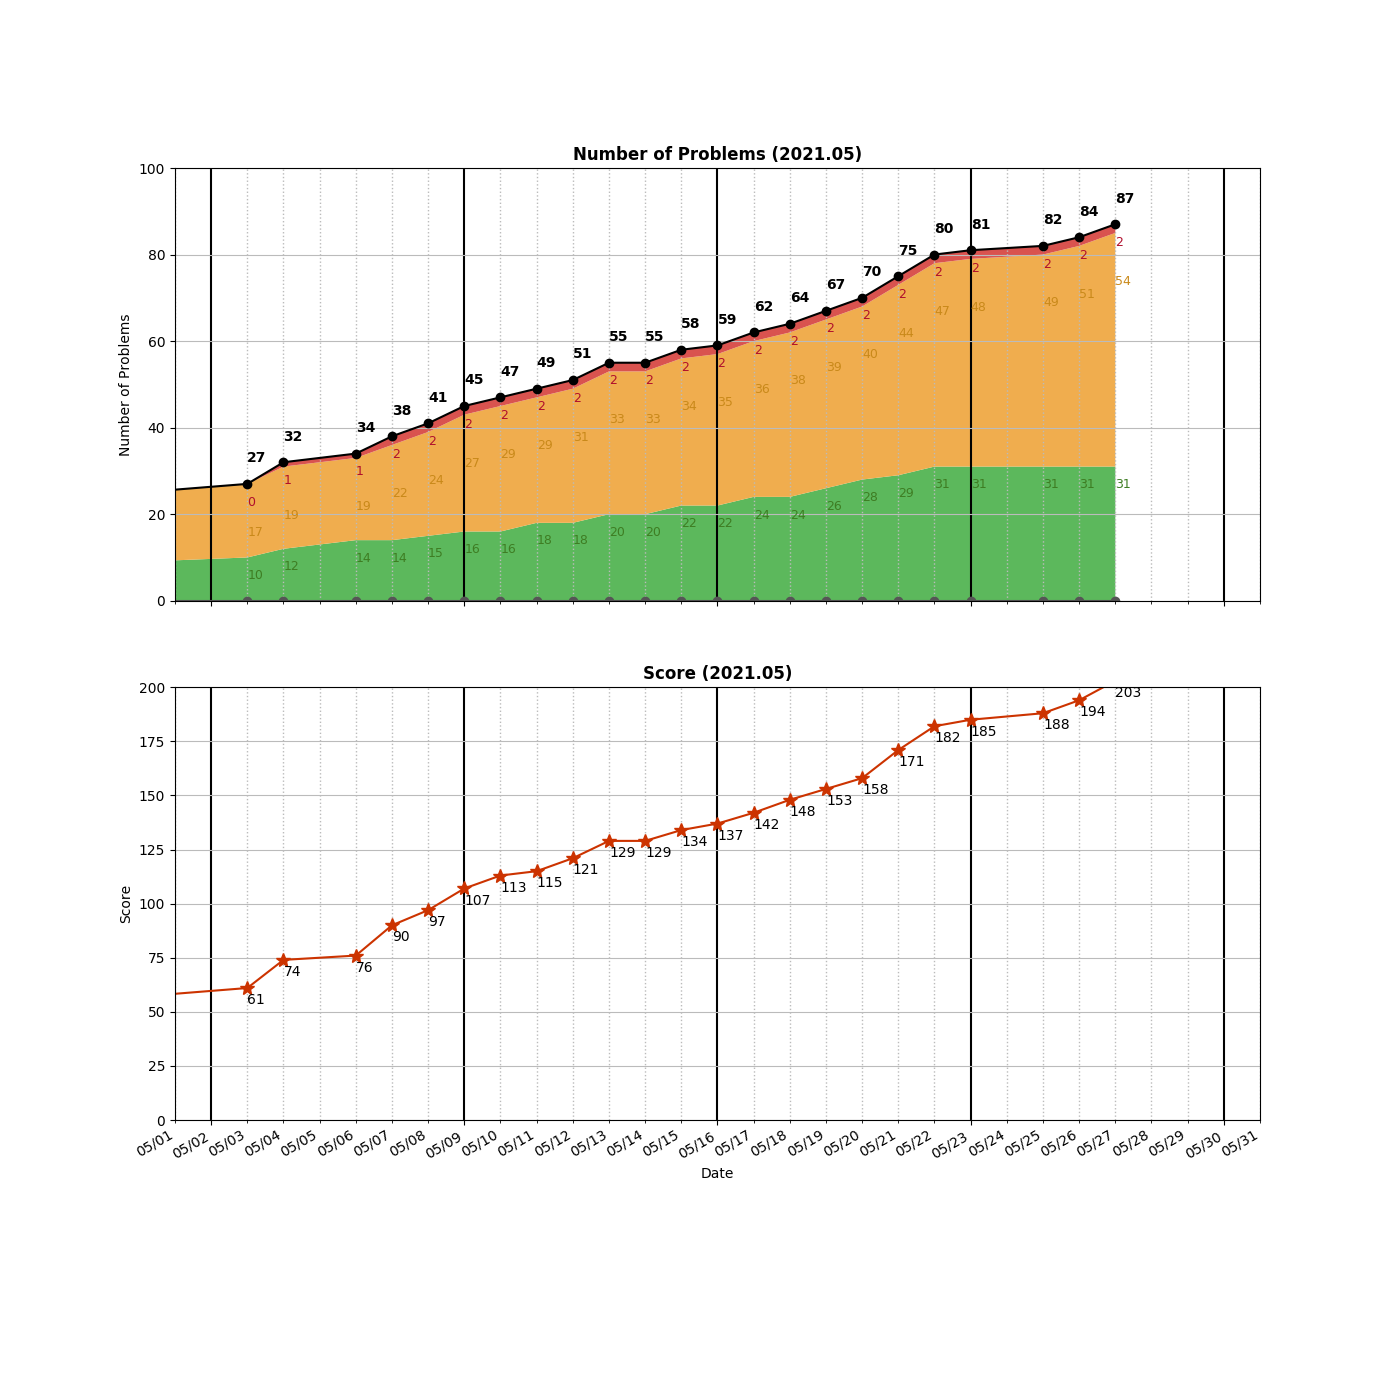
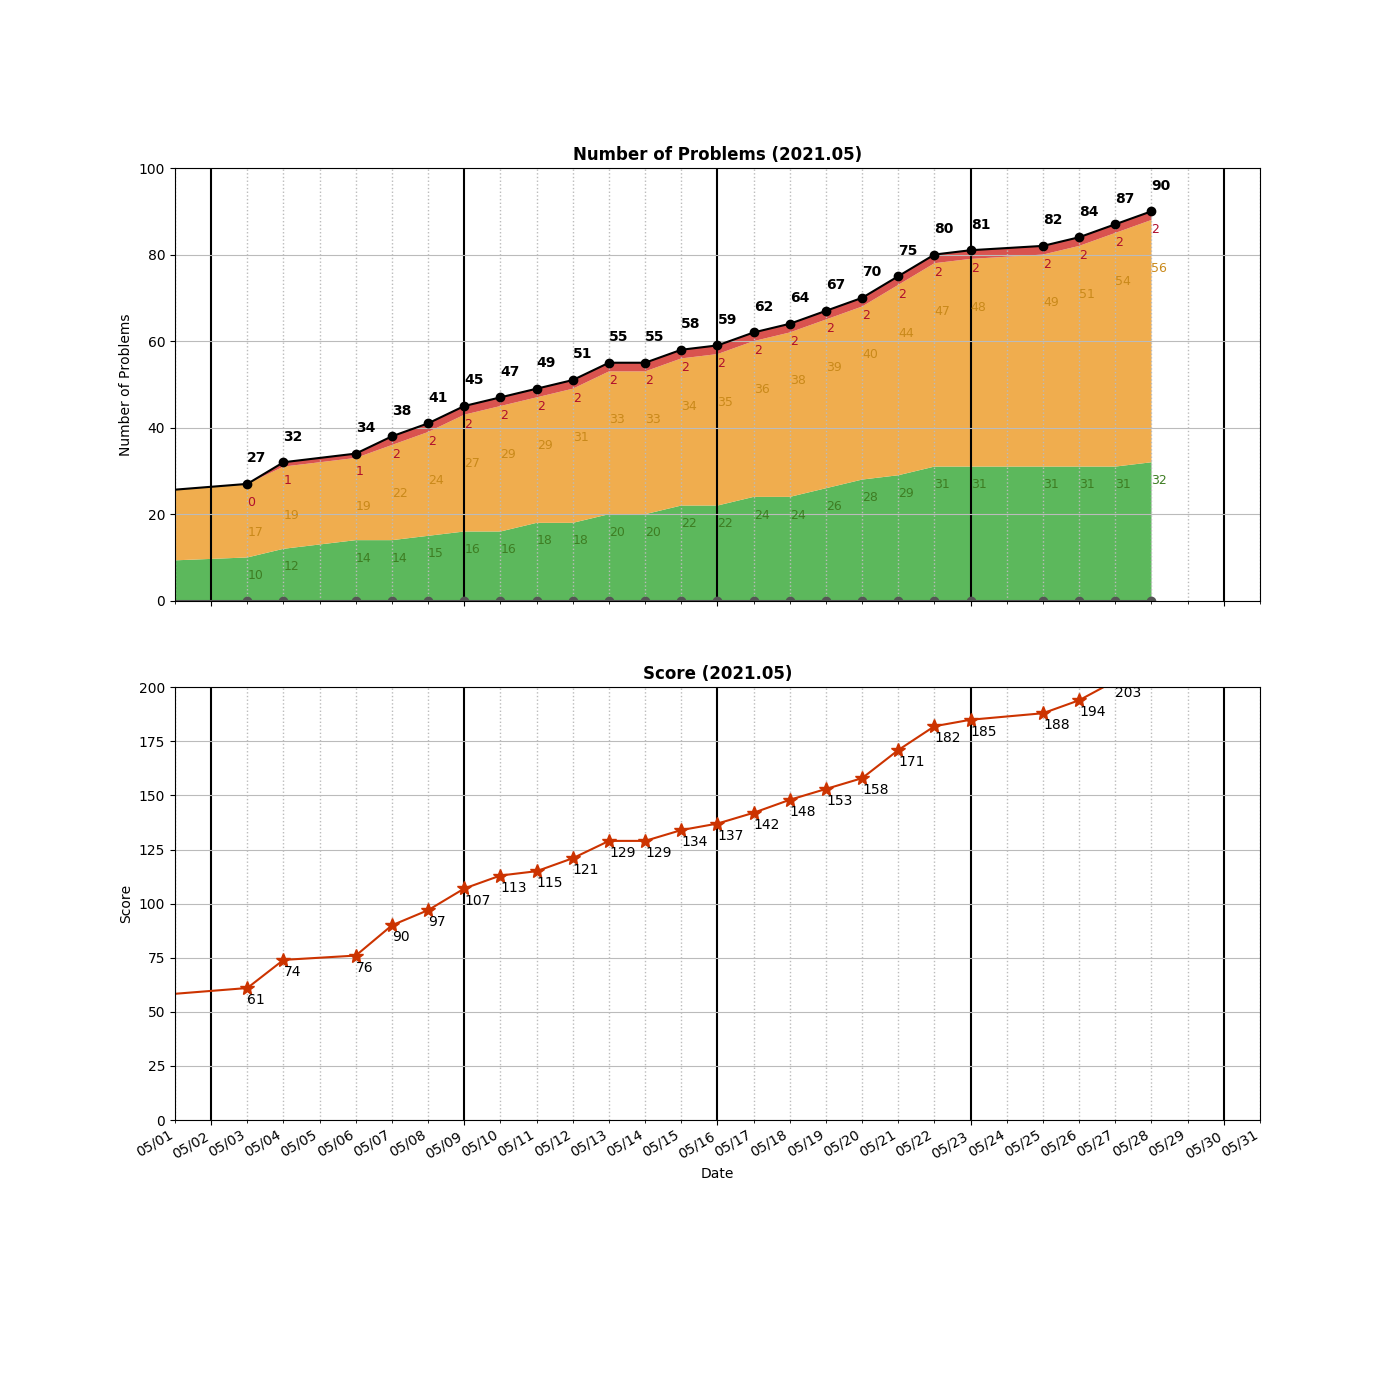
Added __0079__Word Search.py

Changed region(s): [[0.7986, 0.1536, 0.8293, 0.43]]

diff --git a/algo/DFS/__0079__Word Search.py b/algo/DFS/__0079__Word Search.py
@@ -1,0 +1,116 @@
+DIR = [(0,1), (0,-1), (1,0), (-1,0)]
+
+class Solution:
+    
+    # DFS [O(n^2 * 3^L * 1), 5%]
+    # - Compare one char by one char on the fly.
+    # - Not need to store the PrefixSet 
+    # - Not need to store the cur list. 
+    # - i, j: the coordinates for board
+    # - idx : the coordinates for word
+    def exist(self, board: List[List[str]], word: str) -> bool:
+        print("Compare on the fly")
+        if not board or len(board[0]) == 0:
+            return False
+        if not word:
+            return True
+        
+        m = len(board)
+        n = len(board[0])
+        visited = [[0 for _ in range(n)] for _ in range(m)] 
+        
+        found = False
+        for i in range(len(board)):
+            for j in range(len(board[0])):
+                if self.dfs(board, i, j, 0, word, visited):
+                    return True
+        return False
+    
+    def dfs(self, board, i, j, idx, word, visited):
+        if idx >= len(word):
+            return True
+
+        # if "".join(cur) == word:    #compare in the end
+        #     return True
+        
+        m = len(board)
+        n = len(board[0])
+        
+        # === Check the i, j 
+        if not self.inside(board, i, j, m, n):
+            return False
+        if visited[i][j] == 1:
+            return False
+        if board[i][j] != word[idx]:  #compare on the fly  
+            return False
+        
+        # === DFS 
+        dirs = [(1, 0), (-1, 0), (0, 1), (0, -1)]
+        visited[i][j] = 1
+        for d in dirs:
+            nextI = i + d[0]
+            nextJ = j + d[1]
+            if self.dfs(board, nextI, nextJ, idx + 1, word, visited):
+                return True
+        visited[i][j] = 0
+        return False
+    
+    def inside(self, board, i, j, m, n):
+        if 0 <= i < m and 0 <= j < n:
+            return True
+        return False    
+    
+    # ======================================================
+    
+    # DFS [O(n^2 * 3^L * L), TLE]
+    def exist1(self, board: List[List[str]], word: str) -> bool:
+        if not board or len(board[0]) == 0:
+            return False
+        if not word:
+            return True
+        
+        m = len(board)
+        n = len(board[0])
+        visited = [[0 for _ in range(n)] for _ in range(m)] 
+        #print(visited)
+        for i in range(len(board)):
+            print(visited[i])
+                                      
+        found = False
+        for i in range(len(board)):
+            for j in range(len(board[0])):
+                if self.dfs1(board, i, j, [], word, visited):
+                    return True
+        return False
+    
+    def dfs1(self, board, i, j, cur, word, visited):
+        #print("-----")
+        #print(cur)
+        if len(cur) > len(word):
+            return False
+        curStr = "".join(cur) 
+        #print(curStr, word)
+        if "".join(cur) == word:
+            return True
+        
+        if not self.inside1(board, i, j):
+            return False
+        if visited[i][j] == 1:
+            return False
+        
+        dirs = [(1, 0), (-1, 0), (0, 1), (0, -1)]
+        for d in dirs:
+            nextI = i + d[0]
+            nextJ = j + d[1]
+            visited[i][j] = 1
+            if self.dfs1(board, nextI, nextJ, cur + [board[i][j]], word, visited):
+                return True
+            visited[i][j] = 0
+        return False
+    
+    def inside1(self, board, i, j):
+        m = len(board)
+        n = len(board[0])
+        if 0 <= i < m and 0 <= j < n:
+            return True
+        return False

diff --git a/README.md b/README.md
@@ -34,10 +34,12 @@ algo
 │   ├── __0047__Permutations\ II.py
 │   ├── __0077__Combinations.py
 │   ├── __0078__Subsets.py
+│   ├── __0079__Word\ Search.py
 │   ├── __0090__Subsets\ II.py
 │   ├── __0112__Path\ Sum.py
 │   ├── __0113__Path\ Sum\ II.py
 │   ├── __0200__Number\ of\ Islands.py
+│   ├── __0401__Binary\ Watch.py
 │   ├── __0560__Subarray\ Sum\ Equals\ K.py
 │   ├── __0694__Number\ of\ Distinct\ Islands.py
 │   ├── __0695__Max\ Area\ of\ Island.py
@@ -103,7 +105,7 @@ algo
     ├── __0969__Pancake\ Sorting.py
     └── __1099__Two\ Sum\ Less\ Than\ K.py
 
-15 directories, 87 files
+15 directories, 89 files
 
 =====================================
 ============= Local Repo ============
@@ -132,6 +134,7 @@ __0074__Search a 2D Matrix.py
 __0075__Sort Colors.py
 __0077__Combinations.py
 __0078__Subsets.py
+__0079__Word Search.py
 __0090__Subsets II.py
 __0092__Reverse Linked List II.py
 __0094__Binary Tree Inorder Traversal.py 
@@ -178,6 +181,7 @@ __0297__Serialize and Deserialize Binary Tree.py
 __0322__Coin Change.py
 __0347__Top K Frequent Elements.py
 __0378__Kth Smallest Element in a Sorted Matrix.py
+__0401__Binary Watch.py
 __0437__Path Sum III.py
 __0532__K-diff Pairs in an Array.py
 __0560__Subarray Sum Equals K.py
@@ -196,7 +200,7 @@ __0922__Sort Array By Parity II.py
 __0969__Pancake Sorting.py
 __1099__Two Sum Less Than K.py
 =====================================
-Num of Python Practice:  87
+Num of Python Practice:  89
 
 
 =====================================
@@ -214,6 +218,7 @@ Num of Python Practice:  87
  0021 Merge Two Sorted Lists
  0033 Search in Rotated Sorted Array
  0034 Find First and Last Position of Element in Sorted Array
+ 0036 Valid Sudoku
  0039 Combination Sum
  0040 Combination Sum II
  0046 Permutations
@@ -226,6 +231,7 @@ Num of Python Practice:  87
  0075 Sort Colors
  0077 Combinations
  0078 Subsets
+ 0079 Word Search
  0090 Subsets II
  0092 Reverse Linked List II
  0094 Binary Tree Inorder Traversal
@@ -272,6 +278,7 @@ Num of Python Practice:  87
  0322 Coin Change
  0347 Top K Frequent Elements
  0378 Kth Smallest Element in a Sorted Matrix
+ 0401 Binary Watch
  0437 Path Sum III
  0532 K-diff Pairs in an Array
  0560 Subarray Sum Equals K
@@ -290,11 +297,11 @@ Num of Python Practice:  87
  0969 Pancake Sorting
  1099 Two Sum Less Than K
 =====================================
-Solved / Total (Easy)  :   31 /  493
-Solved / Total (Medium):   54 /  988
+Solved / Total (Easy)  :   32 /  493
+Solved / Total (Medium):   56 /  988
 Solved / Total (Hard)  :    2 /  393
-Solved / Total (All)   :   87 / 1874
-Total Score            :  203
+Solved / Total (All)   :   90 / 1874
+Total Score            :  210
 =====================================
 
 ```
